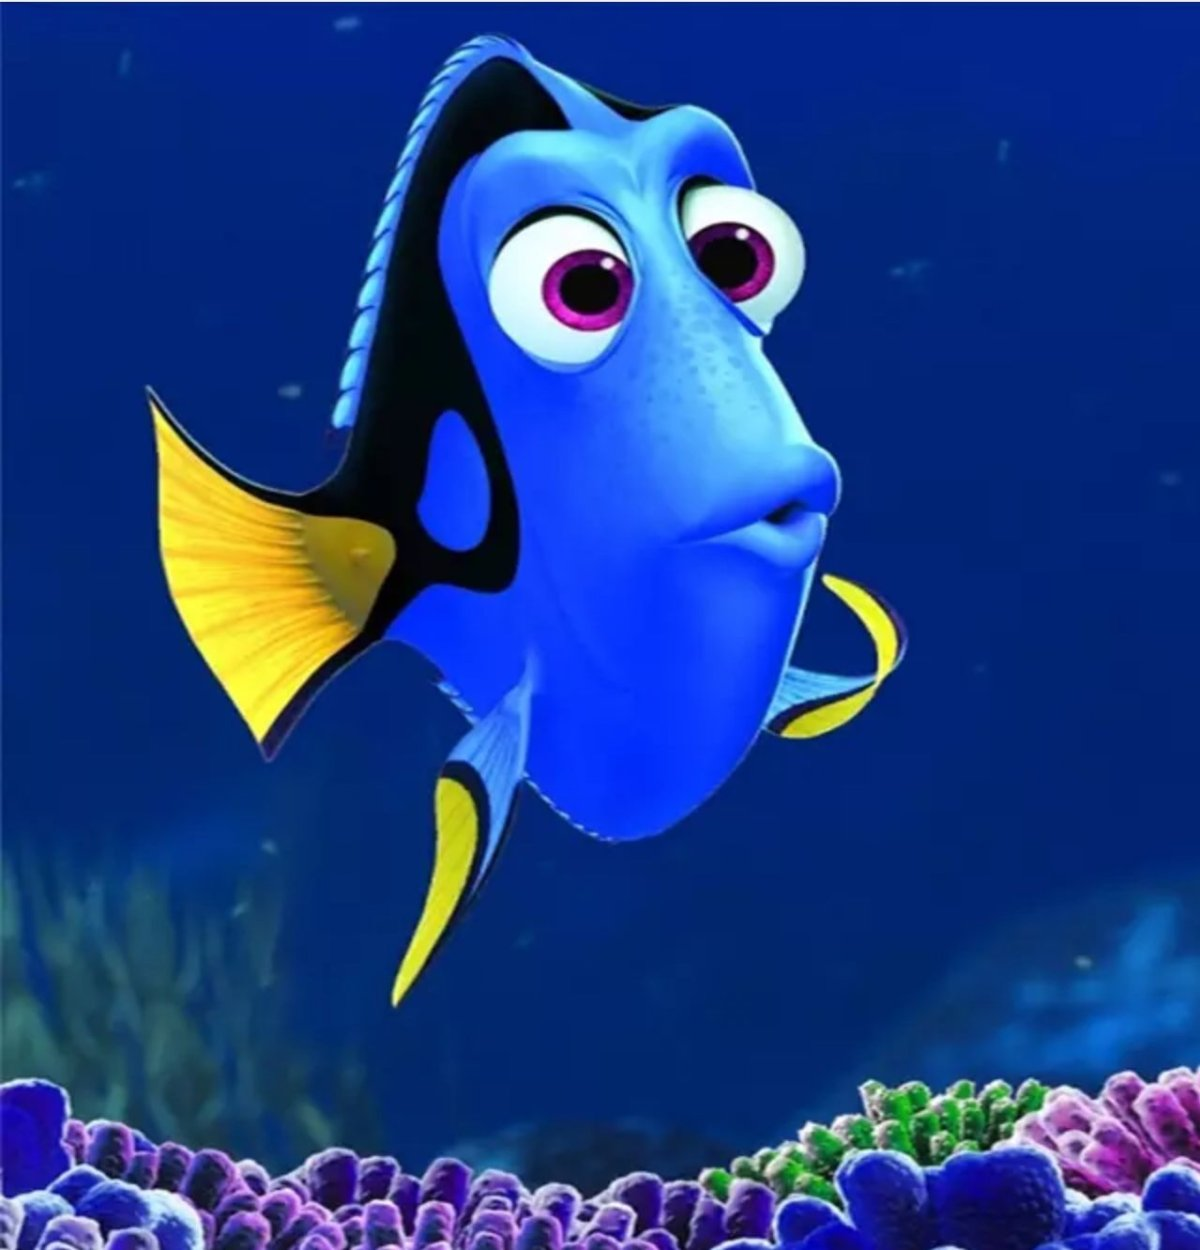
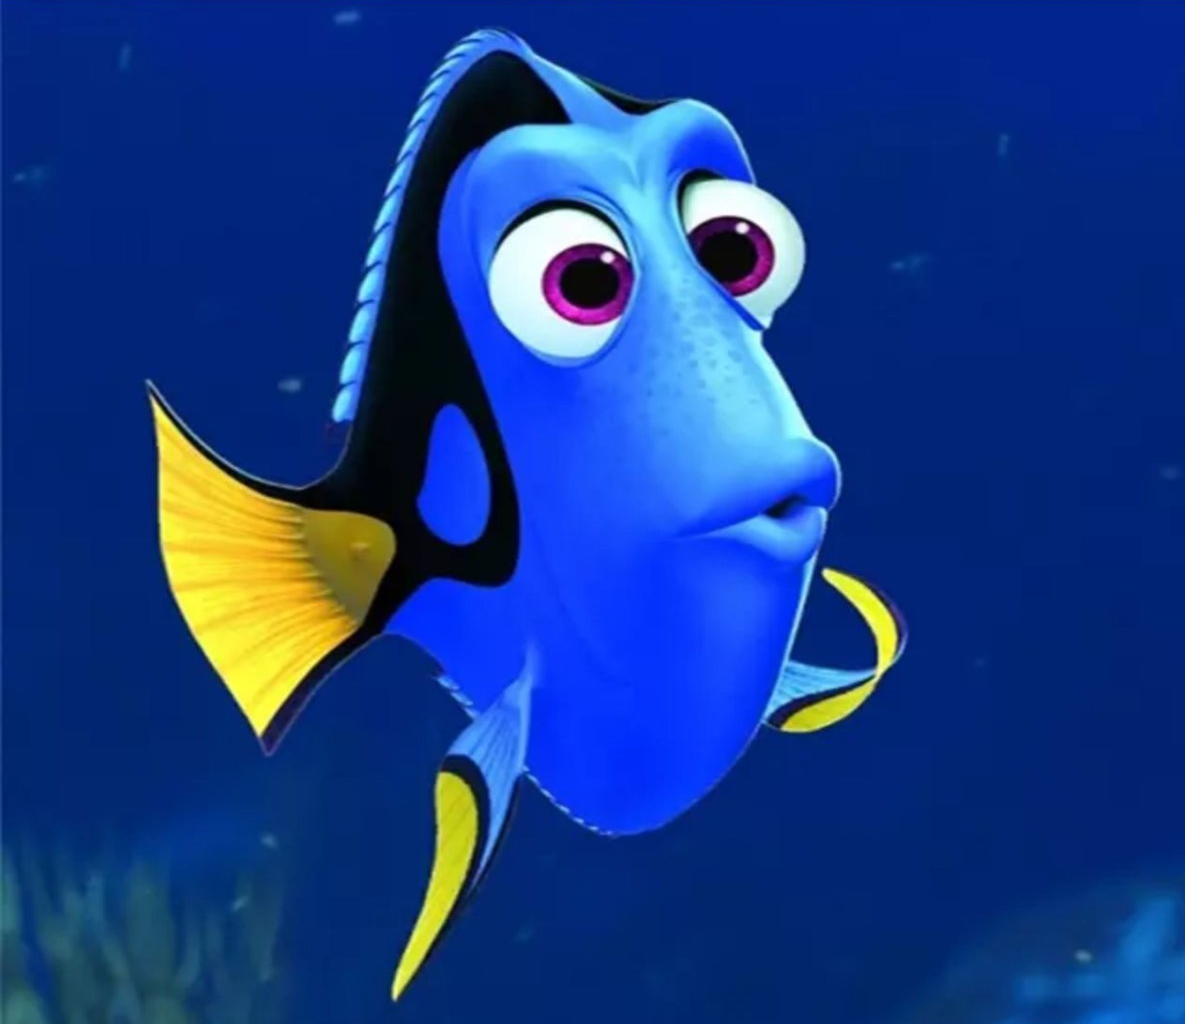
Мультики и антропоморфы: исправлена обрезка картинок и переход видео на YouTube в новой вкладке
Картинки распирало макет карточки при наведении курсора — не была отключена глобальная
CSS-анимация зума (.md-typeset img:hover { transform: scale(1.8) }), которая применяется ко всем
картинкам сайта. Добавлено переопределение для .anthro-card .anthro-media img:hover.

YouTube-эмбеды переведены на youtube-nocookie.com (режим расширенной приватности) вместо
youtube.com — обычный домен в некоторых браузерах блокируется защитой от трекеров (Brave
Shields, Firefox ETP, Safari ITP), из-за чего плеер откатывается к ссылке «Watch on YouTube» в
новой вкладке вместо проигрывания на месте. Добавлен атрибут allow с нужными разрешениями
плеера. Меняется для всех YouTube-встраиваний на сайте, не только в этом разделе. Обновлены
тесты hook'а.

Также подхвачены переизображённые пользователем картинки (Салли и Майк, кошачья семья, Дори) и
её собственное удаление больше не нужного cars-not-anthropomorphic.png.

diff --git a/site/theme/extra.css b/site/theme/extra.css
@@ -641,6 +641,14 @@ body, .md-typeset {
   cursor: default;
   max-width: 100%;
   max-height: none;
+  transition: none;
+}
+/* Переопределяет общий .md-typeset img:hover (зум 1.8x на всех картинках сайта) — внутри
+   карточки-примера при наведении не должно распирать макет. */
+.anthro-card .anthro-media img:hover {
+  transform: none;
+  z-index: auto;
+  box-shadow: none;
 }
 .anthro-card .anthro-body {
   flex: 1;

diff --git a/site/hooks/tests/test_embed_video_links.py b/site/hooks/tests/test_embed_video_links.py
@@ -44,13 +44,19 @@ def test_vk_link_with_query_string_is_stripped():
     assert "list=" not in result
 
 
+YOUTUBE_ALLOW = (
+    'allow="accelerometer; autoplay; clipboard-write; encrypted-media; gyroscope; '
+    'picture-in-picture"'
+)
+
+
 def test_youtube_shorts_link():
     md = "**Антипример 1:** https://www.youtube.com/shorts/kLTpStNQRF0"
     result = on_page_markdown(md, None, SITE_CONFIG, None)
     assert (
         '<iframe class="embedded-video" '
-        'src="https://www.youtube.com/embed/kLTpStNQRF0" '
-        'loading="lazy" allowfullscreen></iframe>'
+        'src="https://www.youtube-nocookie.com/embed/kLTpStNQRF0" '
+        f'loading="lazy" {YOUTUBE_ALLOW} allowfullscreen></iframe>'
     ) in result
 
 
@@ -59,8 +65,8 @@ def test_youtube_watch_link():
     result = on_page_markdown(md, None, SITE_CONFIG, None)
     assert (
         '<iframe class="embedded-video" '
-        'src="https://www.youtube.com/embed/g2IF5NG2vU4" '
-        'loading="lazy" allowfullscreen></iframe>'
+        'src="https://www.youtube-nocookie.com/embed/g2IF5NG2vU4" '
+        f'loading="lazy" {YOUTUBE_ALLOW} allowfullscreen></iframe>'
     ) in result
 
 
@@ -69,8 +75,8 @@ def test_youtube_watch_link_inside_markdown_link():
     result = on_page_markdown(md, None, SITE_CONFIG, None)
     assert (
         '<iframe class="embedded-video" '
-        'src="https://www.youtube.com/embed/g2IF5NG2vU4" '
-        'loading="lazy" allowfullscreen></iframe>'
+        'src="https://www.youtube-nocookie.com/embed/g2IF5NG2vU4" '
+        f'loading="lazy" {YOUTUBE_ALLOW} allowfullscreen></iframe>'
     ) in result
     assert '<figcaption>g2IF5NG2vU4</figcaption>' in result
     assert "(с 35 секунды) — подходит." in result
@@ -92,8 +98,8 @@ def test_youtube_shorts_inside_markdown_link():
     result = on_page_markdown(md, None, SITE_CONFIG, None)
     assert (
         '<iframe class="embedded-video" '
-        'src="https://www.youtube.com/embed/FqnaRHnTwck" '
-        'loading="lazy" allowfullscreen></iframe>'
+        'src="https://www.youtube-nocookie.com/embed/FqnaRHnTwck" '
+        f'loading="lazy" {YOUTUBE_ALLOW} allowfullscreen></iframe>'
     ) in result
     assert '<figcaption>FqnaRHnTwck</figcaption>' in result
     assert '<figure class="embedded-video-figure">' in result
@@ -130,8 +136,8 @@ def test_real_line_05_what_to_label_keeps_caption_and_surrounding_text():
     result = on_page_markdown(md, None, SITE_CONFIG, None)
     assert (
         '<iframe class="embedded-video" '
-        'src="https://www.youtube.com/embed/FqnaRHnTwck" '
-        'loading="lazy" allowfullscreen></iframe>'
+        'src="https://www.youtube-nocookie.com/embed/FqnaRHnTwck" '
+        f'loading="lazy" {YOUTUBE_ALLOW} allowfullscreen></iframe>'
     ) in result
     assert '<figcaption>FqnaRHnTwck</figcaption>' in result
     assert "  - ❌ " in result

diff --git a/site/hooks/embed_video_links.py b/site/hooks/embed_video_links.py
@@ -12,10 +12,17 @@ def _vk_iframe(oid, video_id):
 
 
 def _youtube_iframe(video_id):
+    # youtube-nocookie.com (режим «расширенной защиты конфиденциальности») вместо youtube.com —
+    # обычный домен youtube.com для встраивания в некоторых браузерах блокируется защитой от
+    # трекеров (Brave Shields, Firefox ETP, Safari ITP и т.п.), из-за чего плеер вместо
+    # проигрывания на месте откатывается к ссылке «Watch on YouTube», открывающей видео в новой
+    # вкладке — привязанный к видео cookie до взаимодействия с плеером не выставляется, что реже
+    # триггерит такую блокировку.
     return (
         f'<iframe class="embedded-video" '
-        f'src="https://www.youtube.com/embed/{video_id}" '
-        f'loading="lazy" allowfullscreen></iframe>'
+        f'src="https://www.youtube-nocookie.com/embed/{video_id}" '
+        f'loading="lazy" allow="accelerometer; autoplay; clipboard-write; encrypted-media; '
+        f'gyroscope; picture-in-picture" allowfullscreen></iframe>'
     )
 
 
